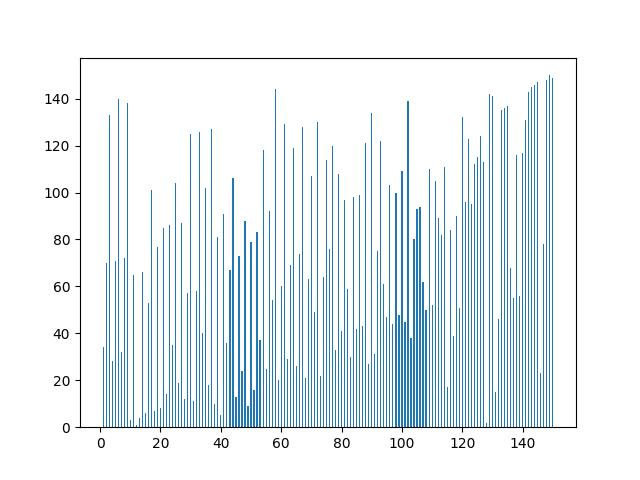
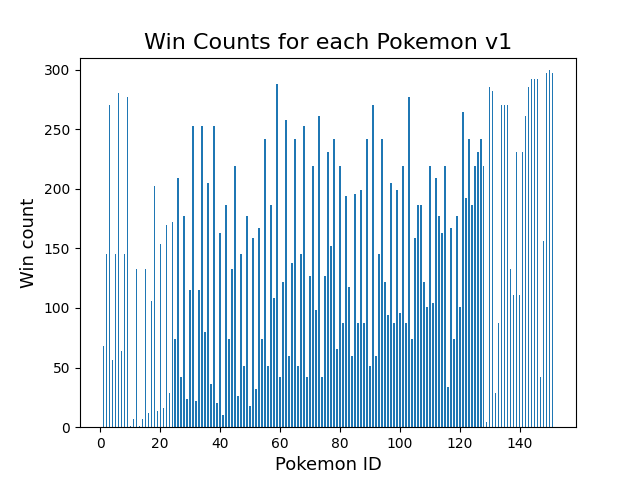
Add labels to plots

diff --git a/src/v1/visualization.py b/src/v1/visualization.py
@@ -78,7 +78,11 @@ if __name__ == '__main__':
     win_counts = df_matches['Winner'].value_counts().sort_index()
 
 
-    pokemons = df_matches['Poke_1'].unique()
+    pokemons = pd.concat([df_matches['Poke_1'],df_matches['Poke_2']]).unique()
 
     plt.bar(pokemons,win_counts,width=0.4)
+    plt.title('Win Counts for each Pokemon v1', fontsize='16')
+    plt.xlabel("Pokemon ID",fontsize='13')
+    plt.ylabel("Win count",fontsize='13')
+    plt.ylim(0,310)
     plt.savefig('plots/win_counts.png')	#saves the figure in the present directory

diff --git a/src/v2/visualization.py b/src/v2/visualization.py
@@ -77,4 +77,8 @@ if __name__ == '__main__':
     counts = df_matches['Winner'].value_counts().sort_index()
     pokemons = pd.concat([df_matches['Poke_1'],df_matches['Poke_2']]).unique()
     plt.bar(pokemons,counts,width=0.4)
+    plt.title('Win Counts for each Pokemon v2', fontsize='16')
+    plt.xlabel("Pokemon ID",fontsize='13')
+    plt.ylabel("Win count",fontsize='13')
+    plt.ylim(0,310)
     plt.savefig('plots/win_counts.png')	#saves the figure in the present directory
